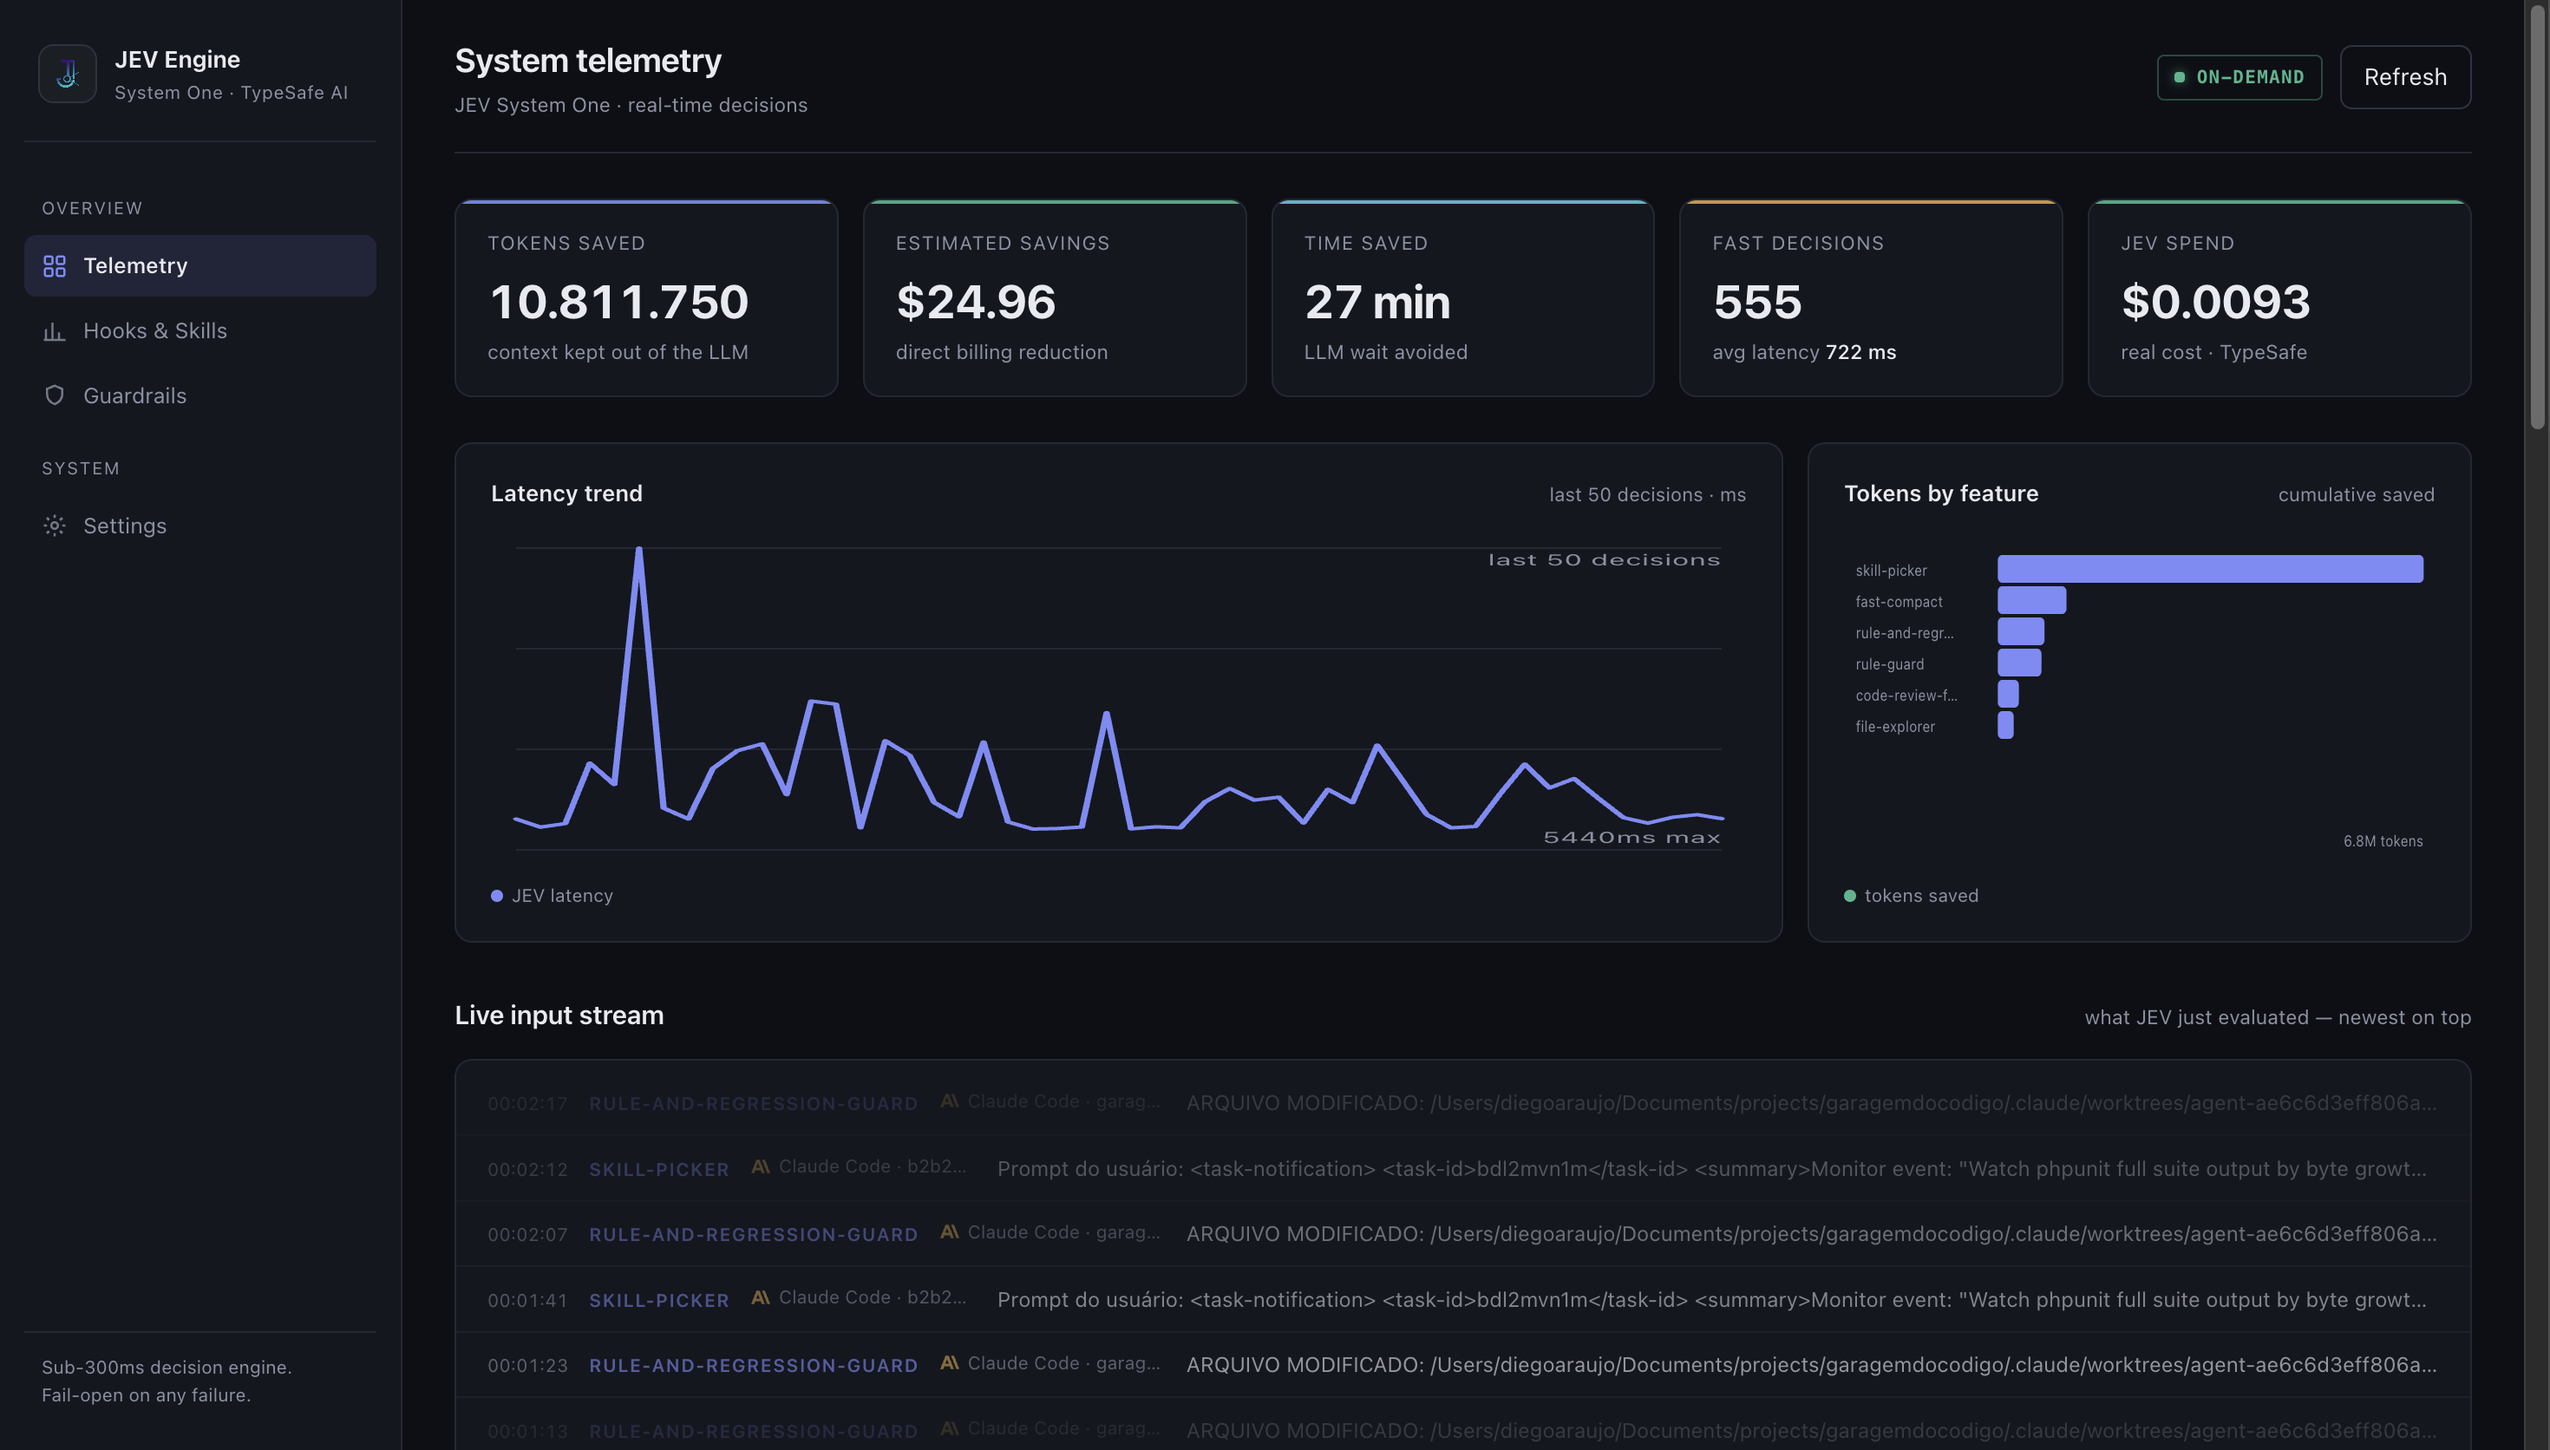
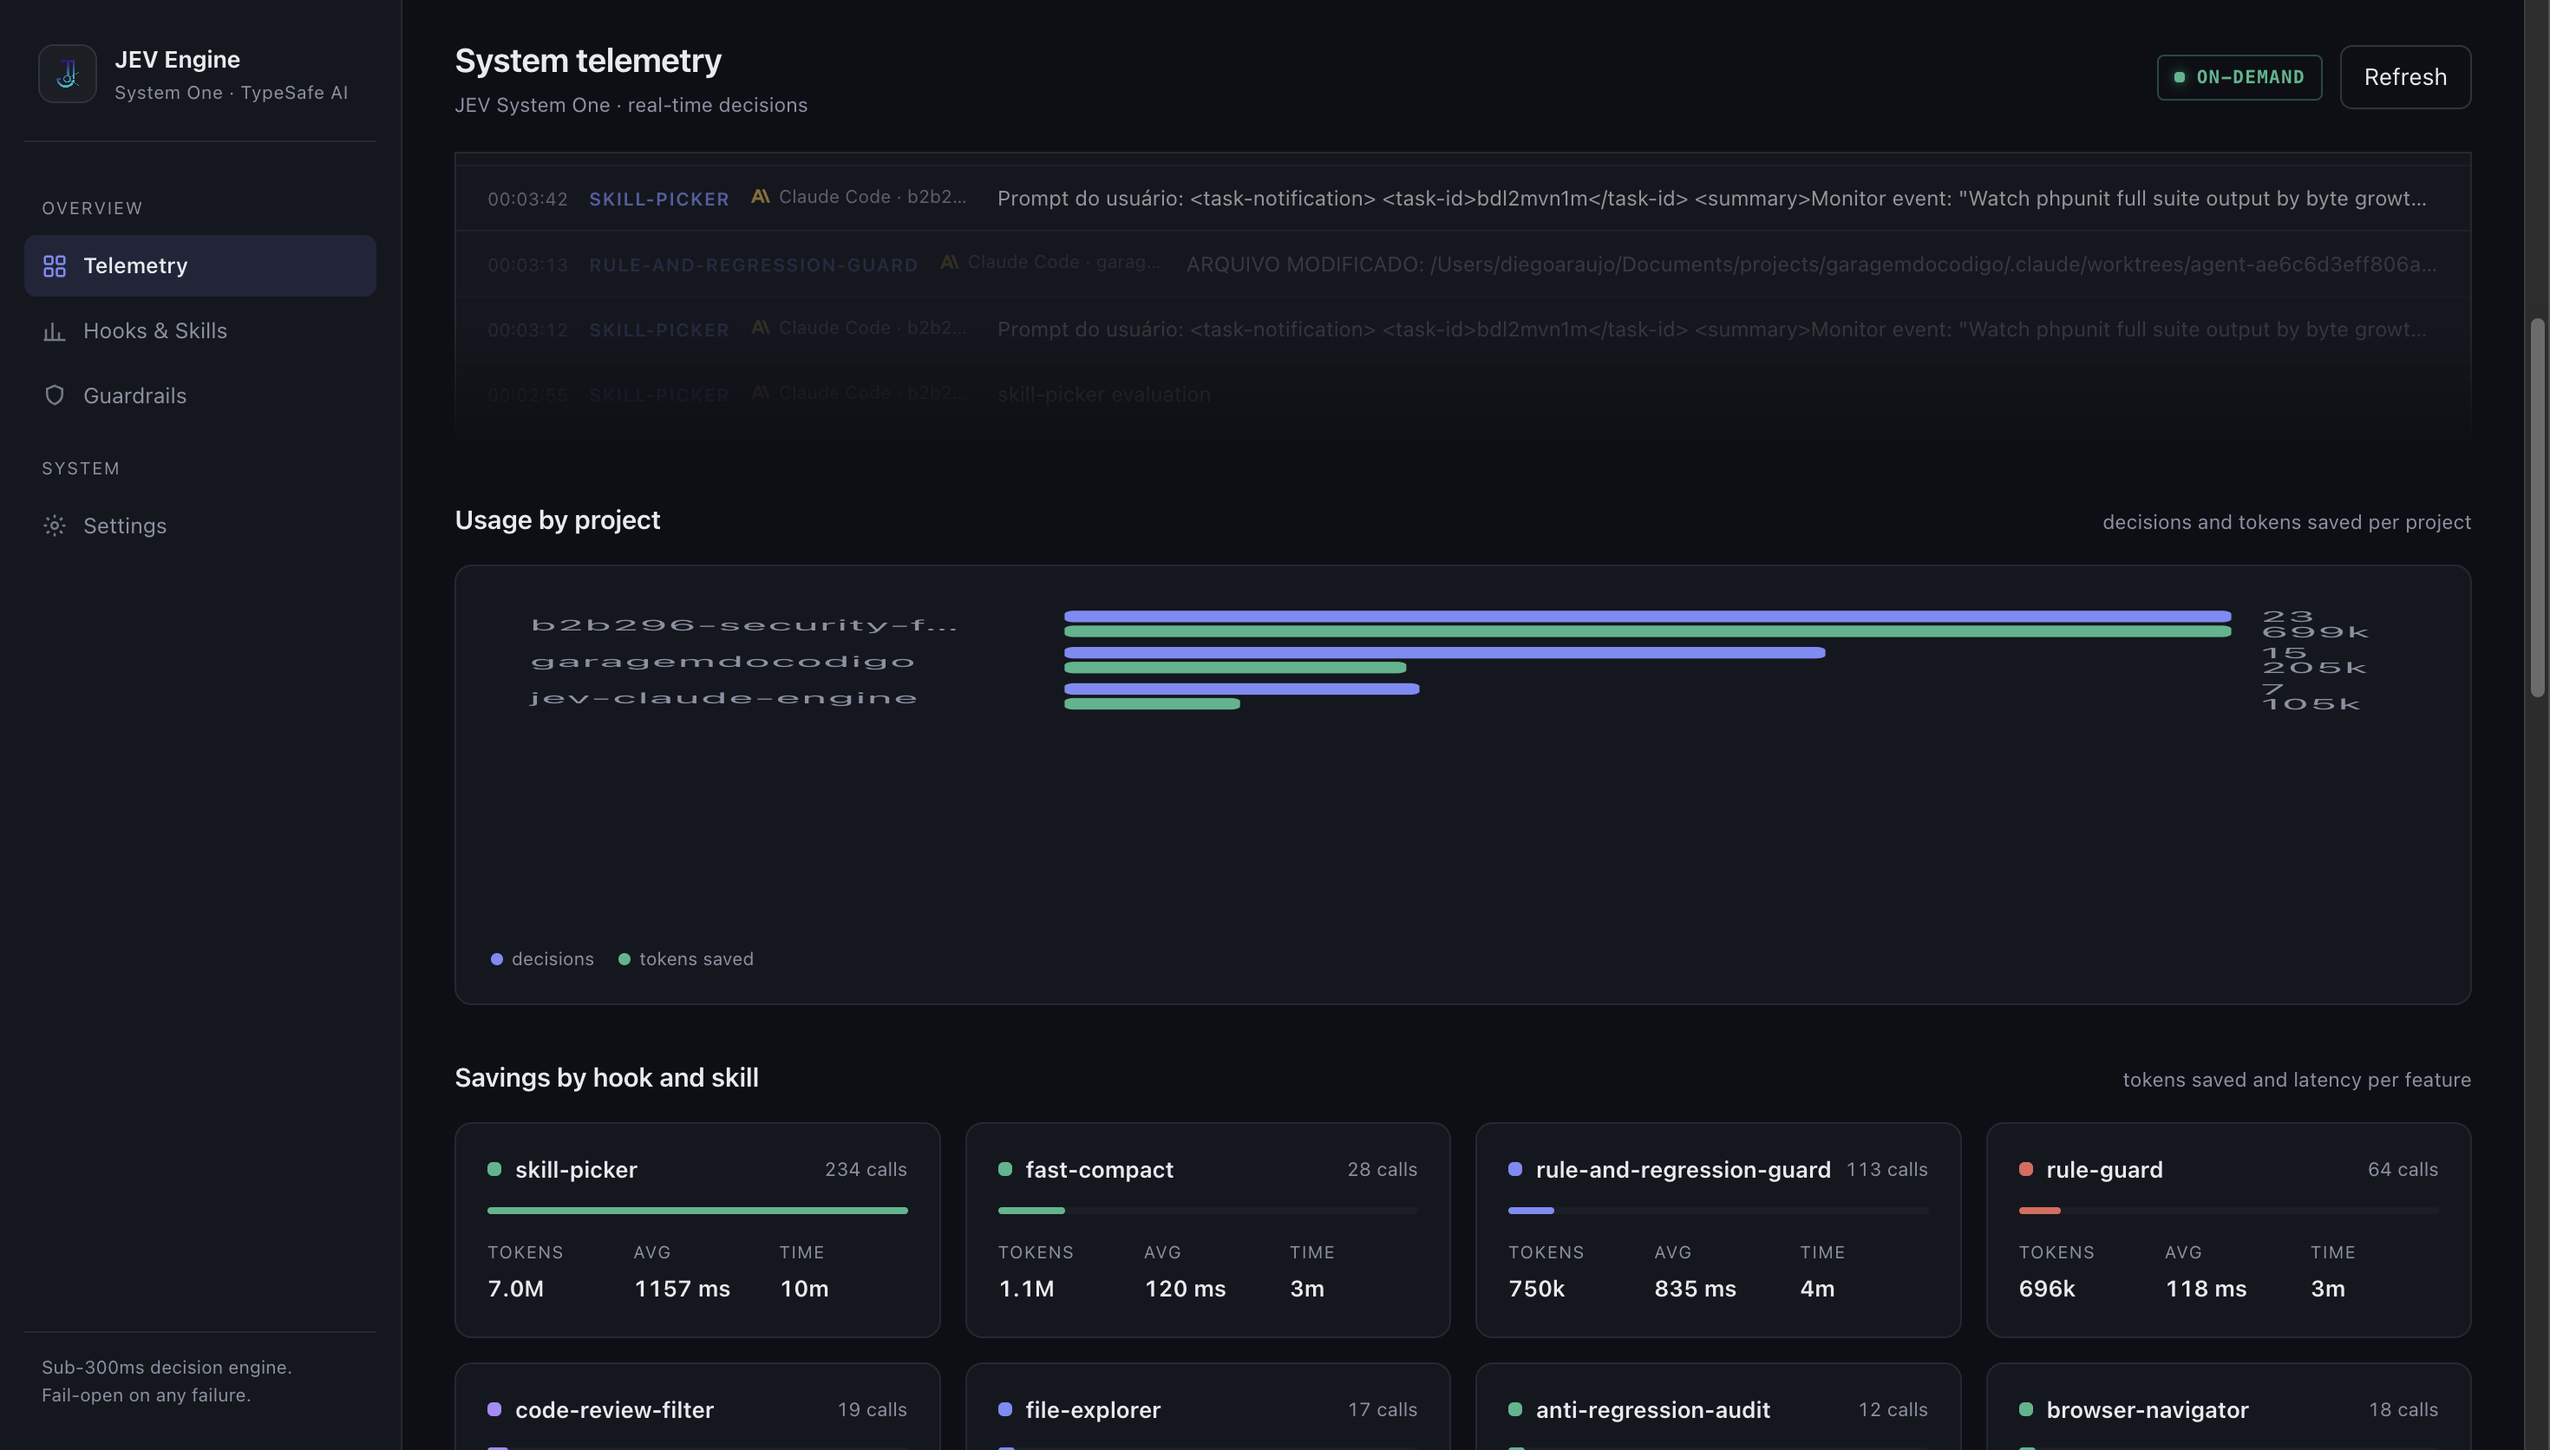
feat(dashboard): usage by project chart
Telemetry aggregates by_project (basename of origin path, worktree-aware);
dashboard adds 'Usage by project' section with twin bars per project
(decisions + tokens saved) for top 8. Updated screenshot (563 decisions,
$25.32, 11.0M tokens).

diff --git a/src/dashboard.js b/src/dashboard.js
@@ -406,6 +406,20 @@ export function createDashboardHtml(initialData, projectDir) {
 
     <div class="section">
       <div class="section-head">
+        <div class="section-title">Usage by project</div>
+        <div class="section-note">decisions and tokens saved per project</div>
+      </div>
+      <div class="chart-card">
+        <svg class="chart-svg" id="chart-projects" viewBox="0 0 400 200" preserveAspectRatio="none"></svg>
+        <div class="chart-legend">
+          <span><span class="dot lat"></span>decisions</span>
+          <span><span class="dot tok"></span>tokens saved</span>
+        </div>
+      </div>
+    </div>
+
+    <div class="section">
+      <div class="section-head">
         <div class="section-title">Savings by hook and skill</div>
         <div class="section-note">tokens saved and latency per feature</div>
       </div>
@@ -510,6 +524,7 @@ export function createDashboardHtml(initialData, projectDir) {
 
       renderLatencyChart(entries);
       renderFeatureBars(data.by_feature || {});
+      renderProjectBars(data.by_project || {});
       renderStream(entries);
     }
 
@@ -685,6 +700,35 @@ function projectShort(p) {
       if (s >= 3600) return (s / 3600).toFixed(1) + 'h';
       if (s >= 60) return Math.round(s / 60) + 'm';
       return s + 's';
+    }
+
+    // --- Usage by project: twin bars (decisions + tokens saved) per project ---
+    function renderProjectBars(byProject) {
+      const svg = document.getElementById('chart-projects');
+      const W = 400, H = 200, pad = 8, barH = 7, gap = 22;
+      const projects = Object.entries(byProject || {})
+        .sort((a, b) => b[1].count - a[1].count)
+        .slice(0, 8);
+      if (projects.length === 0) { svg.innerHTML = ''; return; }
+
+      const maxCount = Math.max(...projects.map(([, p]) => p.count), 1);
+      const maxTokens = Math.max(...projects.map(([, p]) => p.tokens_saved), 1);
+      const labelW = 110, barMax = W - pad - labelW - pad - 34;
+      let out = '';
+      projects.forEach(([name, p], i) => {
+        const y = pad + i * gap;
+        const wDec = Math.max(3, (p.count / maxCount) * barMax);
+        const wTok = Math.max(3, (p.tokens_saved / maxTokens) * barMax);
+        // label
+        out += '<text class="axis-label" x="' + pad + '" y="' + (y + 12) + '">' + truncate(name, 18) + '</text>';
+        // twin bars
+        out += '<rect class="bar" x="' + (pad + labelW) + '" y="' + y + '" width="' + wDec.toFixed(1) + '" height="' + barH + '" rx="2"/>' +
+          '<rect class="bar" style="fill:var(--good)" x="' + (pad + labelW) + '" y="' + (y + barH + 2) + '" width="' + wTok.toFixed(1) + '" height="' + barH + '" rx="2"/>';
+        // counts on the right
+        out += '<text class="axis-label" x="' + (pad + labelW + barMax + 6) + '" y="' + (y + barH) + '">' + p.count + '</text>' +
+          '<text class="axis-label" x="' + (pad + labelW + barMax + 6) + '" y="' + (y + 2 * barH + 2) + '">' + fmtShort(p.tokens_saved) + '</text>';
+      });
+      svg.innerHTML = out;
     }
 
     async function fetchData() {

diff --git a/src/telemetry.js b/src/telemetry.js
@@ -26,6 +26,21 @@ export function detectOrigin(cwd = process.cwd()) {
   return { agent, project };
 }
 
+/** basename of a project path, tolerant to trailing slashes and worktrees. */
+export function projectName(p) {
+  if (!p) return '';
+  const s = String(p).replace(/\/+$/, '');
+  const seg = s.split('/');
+  // collapse nested .claude/worktrees/<name> to the leaf project name
+  for (let i = seg.length - 1; i >= 0; i--) {
+    const cur = seg[i];
+    if (cur && cur !== 'worktrees' && cur !== '.claude' && !cur.startsWith('.')) {
+      return cur;
+    }
+  }
+  return seg[seg.length - 1] || s;
+}
+
 export function getTelemetryDir(projectDir = process.cwd()) {
   const dir = path.join(projectDir, '.jev');
   if (!fs.existsSync(dir)) {
@@ -125,6 +140,7 @@ export function readTelemetrySummary(projectDir = process.cwd()) {
   let totalJevCost = 0;
   let totalJevInputTokens = 0;
   const byFeature = {};
+  const byProject = {};
 
   for (const row of entries) {
     const lat = row.jev_latency_ms || 0;
@@ -134,6 +150,7 @@ export function readTelemetrySummary(projectDir = process.cwd()) {
     const feat = row.feature || 'other';
     const jevCost = row.jev_cost_usd || 0.000008;
     const jevInput = row.jev_input_tokens || 0;
+    const proj = projectName(row.origin_project);
 
     totalLatency += lat;
     totalTimeSavedMs += timeSaved;
@@ -156,12 +173,34 @@ export function readTelemetrySummary(projectDir = process.cwd()) {
     byFeature[feat].time_saved_ms += timeSaved;
     byFeature[feat].total_latency += lat;
     byFeature[feat].cost_saved_usd += cost;
+
+    if (proj) {
+      if (!byProject[proj]) {
+        byProject[proj] = { count: 0, tokens_saved: 0, time_saved_ms: 0, total_latency: 0, cost_saved_usd: 0 };
+      }
+      byProject[proj].count += 1;
+      byProject[proj].tokens_saved += tokens;
+      byProject[proj].time_saved_ms += timeSaved;
+      byProject[proj].total_latency += lat;
+      byProject[proj].cost_saved_usd += cost;
+    }
   }
 
   const count = entries.length;
   const byFeatureSummary = {};
   for (const [k, v] of Object.entries(byFeature)) {
     byFeatureSummary[k] = {
+      count: v.count,
+      tokens_saved: v.tokens_saved,
+      time_saved_sec: Math.round(v.time_saved_ms / 1000),
+      avg_latency_ms: v.count > 0 ? Math.round(v.total_latency / v.count) : 0,
+      cost_saved_usd: Number(v.cost_saved_usd.toFixed(4))
+    };
+  }
+
+  const byProjectSummary = {};
+  for (const [k, v] of Object.entries(byProject)) {
+    byProjectSummary[k] = {
       count: v.count,
       tokens_saved: v.tokens_saved,
       time_saved_sec: Math.round(v.time_saved_ms / 1000),
@@ -181,6 +220,7 @@ export function readTelemetrySummary(projectDir = process.cwd()) {
     total_jev_cost_usd: Number(totalJevCost.toFixed(6)),
     total_jev_input_tokens: totalJevInputTokens,
     by_feature: byFeatureSummary,
+    by_project: byProjectSummary,
     recent_entries: entries.slice(0, 100)
   };
 }
